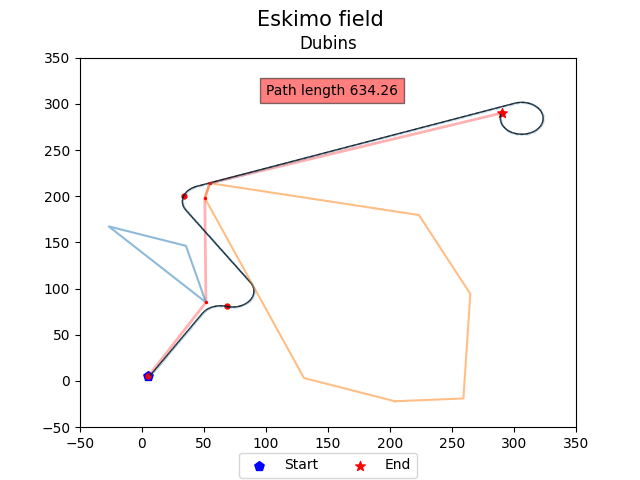
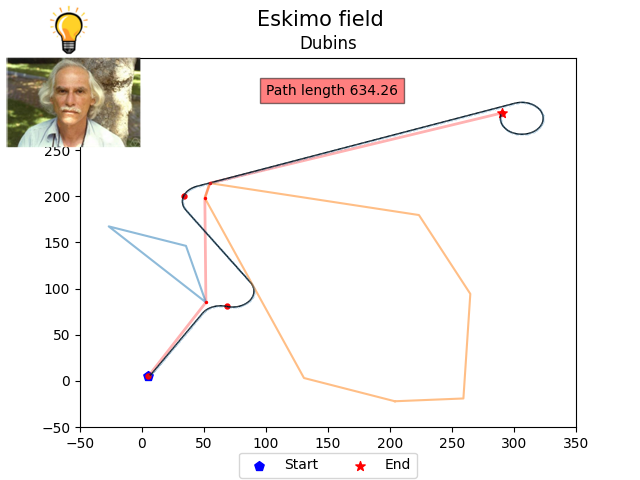
update dubins

Changed region(s): [[0.0, 0.0, 0.2188, 0.3125]]

diff --git a/README.md b/README.md
@@ -187,8 +187,6 @@ determining the most efficient path on that graph.
 ![img.png](project_data/dub_5.png)
 
 
-![img](https://upload.wikimedia.org/wikipedia/commons/7/7a/Lester_Dubins.jpg)
-
 
 
 
